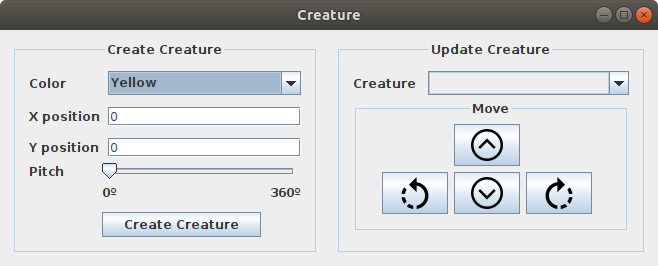
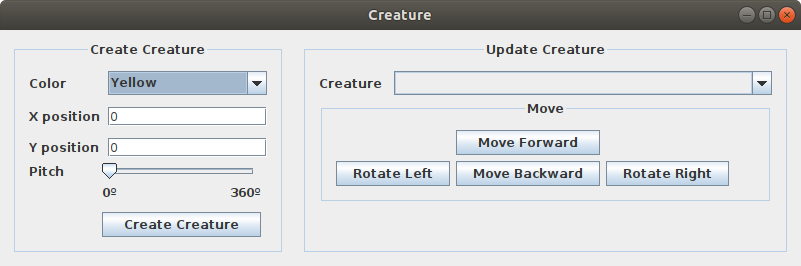
Update Images and README.md

diff --git a/Laboratório de Arquitetura Cognitivas - IA941/Aula1/EntregaAula1/README.MD b/Laboratório de Arquitetura Cognitivas - IA941/Aula1/EntregaAula1/README.MD
@@ -4,6 +4,13 @@
 
 Esse pequeno software tem por objetivo controlar o WS3D tornando possivel a criação de objetos, bem como ter o controle deles
 
+### Para Rodar
+
+Abra o terminal na pasta e digite o seguinte comando
+
+```
+$> sh app.sh
+```
 ---
 ## Telas
 
